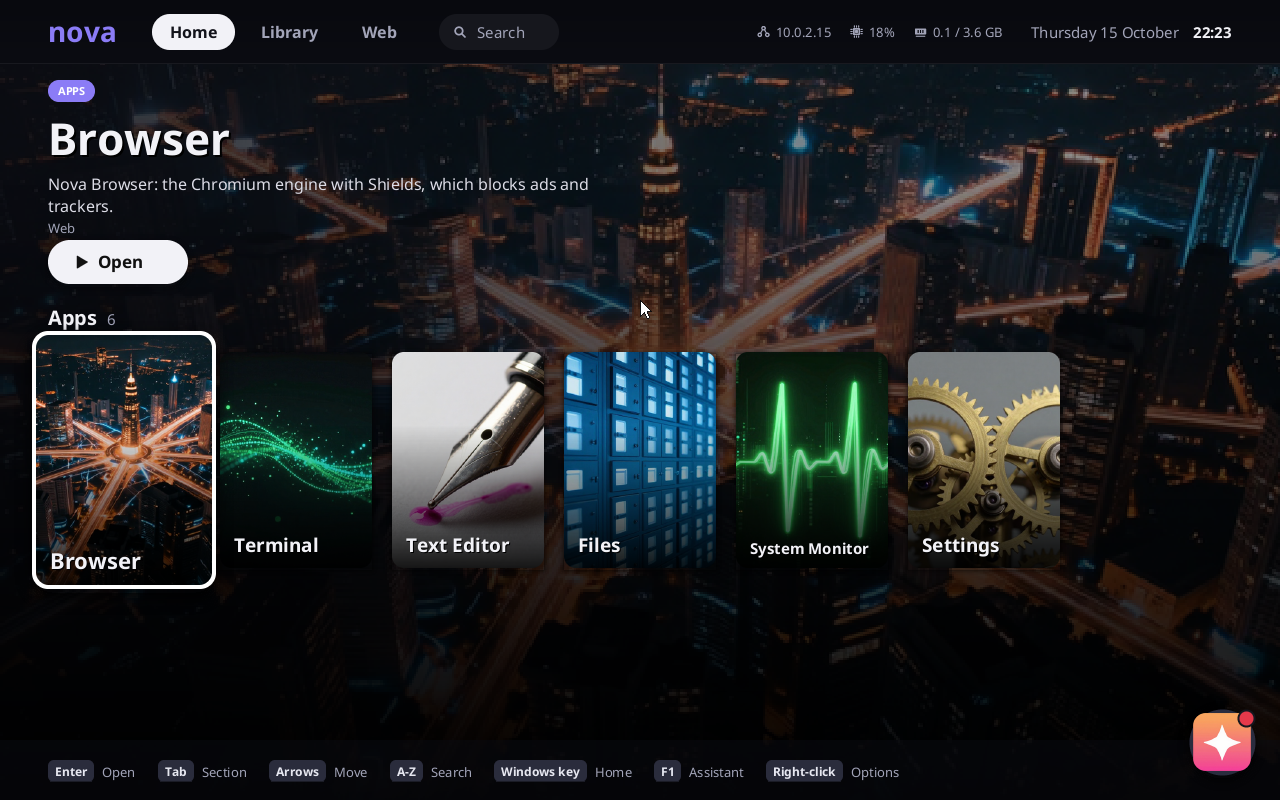
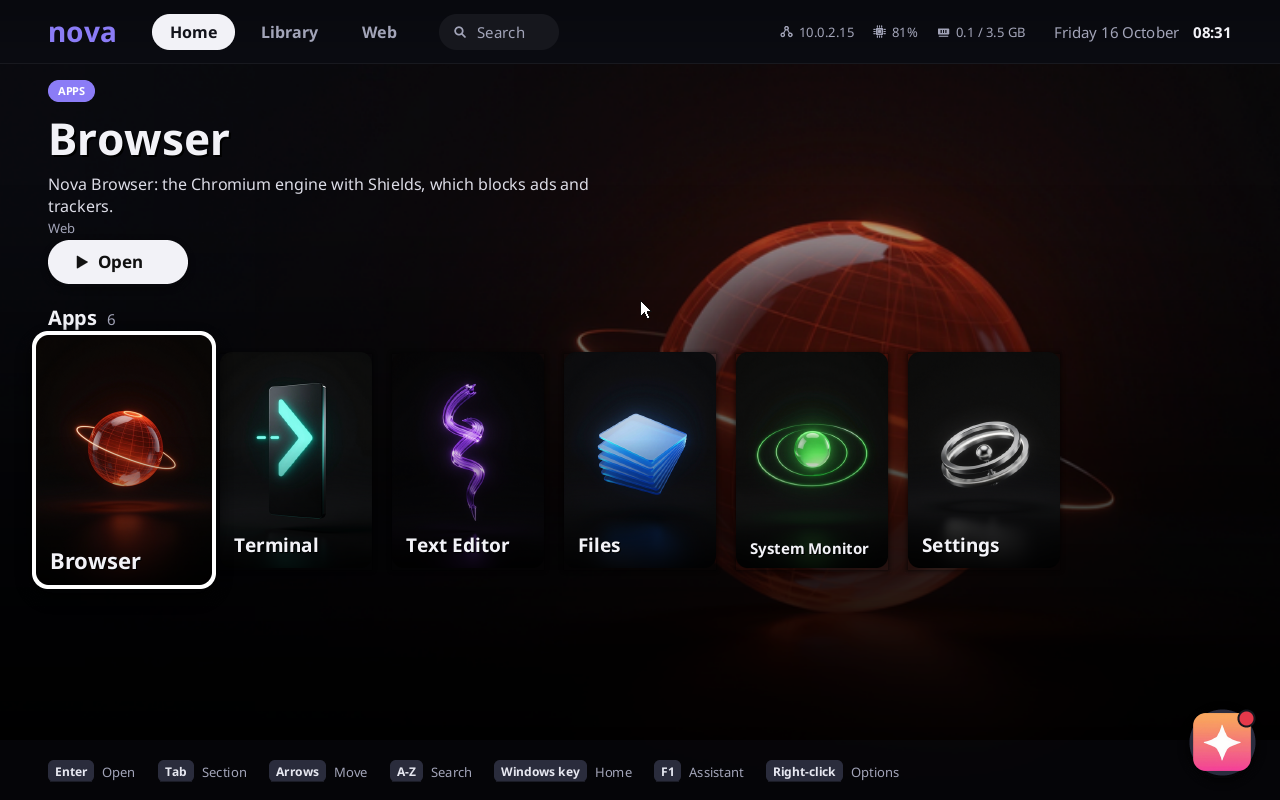
Home key art: one series of light sculptures, capsules plus wide heroes
The Home and Library posters were stock-photo clichés in unrelated styles (a
city for the browser, a fountain pen, brass gears, an ECG line), one 16:9 image
doing both the portrait card (which saw 40% of it) and the full-screen backdrop,
and the two System cards were the same dark circle.

New art direction, written up in assets/README.md: every item is a single
object of dark glass or brushed metal glowing in its signature colour, in the
same black studio under the same key light, so a shelf reads as one family and
matches the icon tiles. Nova motifs instead of clichés: a wire globe with an
orbit ring, an obsidian monolith with a cyan ">" cursor, a violet calligraphic
stroke, a stack of blue glass sheets, a green pulse of rings, a silver
gyroscope, a violet loop arrow (Restart) and a dying ember (Shut down); the
Web tiles and the wallpaper follow the same template. Each item has a portrait
capsule (352x500, composed for the card crop with a quiet bottom for the
title) and a wide hero (768x480, subject at two thirds, empty left half for
the title, description and Open button). Generated with Z-Image Turbo on the
ComfyUI server; several seeds per piece, picked at card size.

home.rs loads hero_<id>.png for the backdrop (falling back to the capsule),
enlarges it bilinearly instead of nearest-neighbour, darkens it less overall
with a second fade under the shelves, gives Restart and Shut down their own
art, and shows the hero in the preview panel until the first live frame
[…]

diff --git a/kernel/src/home.rs b/kernel/src/home.rs
@@ -10,7 +10,10 @@
 //! arrow keys + Enter all work.
 //!
 //! Artwork: `usr/share/nova/home/<name>.png` system files (generated images, see
-//! assets/home/README.md); items without artwork get a procedural poster.
+//! assets/README.md): a portrait capsule per item for the cards and a wide
+//! `hero_<name>.png` for the backdrop, composed with its subject on the right so the
+//! title, description and Open button sit on empty space. Items without artwork get a
+//! procedural poster.
 //!
 //! Typing on Home searches: the query shows in the header and the shelves are
 //! replaced by one row of matches across every tab (Escape clears it).
@@ -166,6 +169,11 @@ fn art(name: &str) -> Option<Arc<Canvas>> {
     c
 }
 
+/// The wide backdrop artwork for an item (`hero_<name>.png`), or its capsule if there is none.
+fn hero(name: &str) -> Option<Arc<Canvas>> {
+    art(&format!("hero_{name}")).or_else(|| art(name))
+}
+
 /// Latest rendered frame per app path.
 static PREVIEWS: SpinLock<Vec<(String, u64, Arc<Canvas>)>> = SpinLock::new(Vec::new());
 /// The app the preview task should render next.
@@ -206,15 +214,36 @@ fn hash(s: &str) -> u32 {
     s.bytes().fold(2166136261u32, |h, b| (h ^ b as u32).wrapping_mul(16777619))
 }
 
-/// Scale `src` to cover `w`x`h` (cropping the overflow, centred).
+/// Scale `src` to cover `w`x`h` (cropping the overflow, centred). Shrinking box-filters
+/// (`blit_scaled`); enlarging, which only the full-screen backdrop does, samples
+/// bilinearly so the artwork stays smooth instead of blocky.
 fn cover(src: &Canvas, w: i32, h: i32) -> Canvas {
     let (sw, sh) = (src.width as i64, src.height as i64);
     let (cw, ch) = if sw * h as i64 > sh * w as i64 { (sh * w as i64 / h as i64, sh) } else { (sw, sw * h as i64 / w as i64) };
-    let (cx, cy) = (((sw - cw) / 2) as i32, ((sh - ch) / 2) as i32);
-    let mut crop = Canvas::new(cw as usize, ch as usize);
-    crop.blit(src, Rect::new(cx, cy, cw as i32, ch as i32), 0, 0);
+    let (cx, cy) = ((sw - cw) / 2, (sh - ch) / 2);
     let mut out = Canvas::new(w as usize, h as usize);
-    out.blit_scaled(&crop, out.bounds(), 0, 255);
+    if cw >= w as i64 {
+        let mut crop = Canvas::new(cw as usize, ch as usize);
+        crop.blit(src, Rect::new(cx as i32, cy as i32, cw as i32, ch as i32), 0, 0);
+        out.blit_scaled(&crop, out.bounds(), 0, 255);
+        return out;
+    }
+    // 24.8 fixed point source coordinates of each output pixel's centre.
+    let pos = |o: i32, n: i32, c: i64, off: i64, limit: i64| -> (usize, u32) {
+        let p = (((2 * o as i64 + 1) * c * 256) / (2 * n as i64) - 128 + off * 256).clamp(0, (limit - 1) * 256);
+        ((p >> 8) as usize, (p & 255) as u32)
+    };
+    for y in 0..h {
+        let (y0, fy) = pos(y, h, ch, cy, sh);
+        let y1 = (y0 + 1).min(sh as usize - 1);
+        for x in 0..w {
+            let (x0, fx) = pos(x, w, cw, cx, sw);
+            let x1 = (x0 + 1).min(sw as usize - 1);
+            let top = blend(src.pixels[y0 * src.width + x0], src.pixels[y0 * src.width + x1], fx);
+            let bottom = blend(src.pixels[y1 * src.width + x0], src.pixels[y1 * src.width + x1], fx);
+            out.pixels[y as usize * w as usize + x as usize] = blend(top, bottom, fy);
+        }
+    }
     out
 }
 
@@ -269,7 +298,8 @@ fn make_poster(item: &Item, w: i32, h: i32) -> Canvas {
             c
         }
     };
-    scrim(&mut c, h / 3, 230);
+    // The capsules keep their bottom quarter quiet for the title; the scrim covers it.
+    scrim(&mut c, h * 2 / 5, 230);
     let size: u16 = if w > CARD_W { 22 } else { 19 };
     let size = if font::width(&item.title, size, Weight::Bold) <= w - 28 { size } else { size - 4 };
     let ty = h - font::line_height(size) - 10;
@@ -437,22 +467,22 @@ impl Home {
             });
         }
 
-        let power = |title: &str, about: &str, action: Action| Item {
+        let power = |title: &str, about: &str, art: &'static str, action: Action| Item {
             title: title.into(),
             category: "System",
             about: about.into(),
             meta: String::new(),
             icon: 'o',
-            color: 0x4C5470,
-            art: Some("power"),
+            color: 0x5B4FA8,
+            art: Some(art),
             kind: Kind::Other,
             action,
         };
         rows.push(Row {
             title: "System",
             items: alloc::vec![
-                power("Restart", "Restart the computer.", Action::Reboot),
-                power("Shut down", "Turn the computer off.", Action::Shutdown),
+                power("Restart", "Restart the computer.", "restart", Action::Reboot),
+                power("Shut down", "Turn the computer off.", "shutdown", Action::Shutdown),
             ],
             scroll: 0,
         });
@@ -922,27 +952,31 @@ impl Home {
         let (w, h) = (self.width, self.height);
         let item = self.selected().cloned();
 
-        // Backdrop: the focused item's artwork across the whole screen, darkened, with a
-        // fade to the shelves and a darker left side under the hero text.
+        // Backdrop: the focused item's hero artwork across the whole screen. The art
+        // keeps its subject on the right, so the darkening is light overall, a gradient
+        // on the left under the hero text, and a fade down to the shelves.
         let key = item.as_ref().map_or(String::new(), |i| i.key());
         if self.backdrop.as_ref().is_none_or(|(k, _)| *k != key) {
-            let mut c = match item.as_ref().and_then(|i| i.art).and_then(art) {
-                Some(a) => cover(&a, w, h),
+            let (mut c, generated) = match item.as_ref().and_then(|i| i.art).and_then(hero) {
+                Some(a) => (cover(&a, w, h), false),
                 // No artwork: the wallpaper, tinted towards the item's colour.
                 None => {
                     let mut c = self.background.clone();
                     if let Some(i) = &item {
                         c.blend_rect(c.bounds(), darken(i.color, 100), 60);
                     }
-                    c
+                    (c, true)
                 }
             };
-            c.blend_rect(c.bounds(), BG, 120);
+            c.blend_rect(c.bounds(), BG, if generated { 120 } else { 70 });
             for x in 0..w * 3 / 5 {
-                let t = 200 - (x * 200 / (w * 3 / 5)) as u32;
+                let t = 190 - (x * 190 / (w * 3 / 5)) as u32;
                 c.blend_rect(Rect::new(x, 0, 1, h), BG, t);
             }
             scrim(&mut c, TOP_BAR + HERO_H / 2, 250);
+            // The shelves sit on the lower half: a second, steeper fade there keeps the
+            // cards and row titles legible on bright art while the hero stays vivid above.
+            scrim(&mut c, TOP_BAR + HERO_H, 150);
             self.backdrop = Some((key, c));
         }
         if let Some((_, c)) = &self.backdrop {
@@ -993,8 +1027,15 @@ impl Home {
             scene.shadow_round(panel, 12, 20, 110);
             scene.fill_round_rect(Rect::new(panel.x - 2, panel.y - 2, panel.w + 4, panel.h + 4), 12, 0x2A2C3E);
             if !Self::draw_live(scene, &item, panel, 10) {
-                let i = self.poster(&item, true);
-                scene.blit_scaled(&self.posters[i].2, panel, 10, 255);
+                // Until the first preview frame: the wide hero art (cropped to the panel),
+                // or the generated poster for items without art.
+                match item.art.and_then(hero) {
+                    Some(a) => scene.blit_scaled(&cover(&a, panel.w, panel.h), panel, 10, 255),
+                    None => {
+                        let i = self.poster(&item, true);
+                        scene.blit_scaled(&self.posters[i].2, panel, 10, 255);
+                    }
+                }
             }
             // A quiet "live" pill: a green dot, not a red banner.
             let badge = if matches!(item.kind, Kind::Window(_)) { "Live" } else { "Preview" };

diff --git a/assets/README.md b/assets/README.md
@@ -1,6 +1,6 @@
 # Generated artwork
 
-Everything in this directory was made for Nova: the posters, wallpaper and app icons with a
+Everything in this directory was made for Nova: the Home key art, wallpaper and app icons with a
 ComfyUI server running a Z-Image Turbo workflow (8 steps, the same workflow as
 kernel/src/imagegen.rs), the symbolic glyphs with a small drawing script. The prompts asked for
 original scenery, abstract art and plain symbols: no text, logos or people. `scripts/build.sh`
@@ -8,9 +8,90 @@ copies the files into the image under `usr/share/nova/`.
 
 | Directory | What | Processing |
 |---|---|---|
-| `home/` | Home's posters and wallpaper, one file per Home item (`browser`, `terminal`, `web_video`, `power`, `wall`, ...) | 1024x576 (wallpaper 1280x800), resized to 640x360 |
+| `home/` | Home's key art: a portrait capsule per item (`browser.png`, `web_video.png`, `restart.png`, ...), a wide hero per item (`hero_browser.png`, ...) and the wallpaper (`wall.png`) | see below; capsules 352x500, heroes 768x480, wallpaper 800x500 |
 | `icons/` | App icons (assistant, browser, terminal, files, editor, monitor, settings, power) | see below; 128x128 |
 | `glyphs/` | Symbolic UI icons (48: arrows, search, grid/list, folder, document, gear, shield, cpu, memory, network, ...): white strokes on black, used as tint masks by `Canvas::draw_mask` | drawn, not generated: see below; 128x128 |
+
+## Home key art
+
+Home shows every item twice: as a portrait card on the shelves (152x216, 176x250 when
+focused, like a game capsule) and, when it is focused, as the backdrop of the whole screen
+with the title, description and Open button over its left half. The first set was one
+16:9 photo per item doing both jobs: the card saw only the middle 40% of it, the backdrop
+was the same photo blown up, and the pictures were stock-photo clichés in unrelated styles
+(a city at night for the browser, a fountain pen, brass gears, a green ECG line). Nothing
+said Nova, and a shelf of them looked like a search results page.
+
+The series was redone the way console and streaming libraries brief their key art (Steam's
+library capsule and hero guidelines, the PS5 and Apple TV home screens, Netflix's artwork
+research): one art direction for the whole set, one focal subject per piece, a signature
+colour per item, legible at thumbnail size, with safe areas for the text the UI draws over
+it, and separate capsule and hero compositions.
+
+**Art direction: light sculptures.** Every item is a single object made of dark glass or
+brushed metal that glows from within in the item's colour, floating in an empty black
+studio, lit by one soft key light from the upper left, with a faint haze of its colour
+behind it and a soft reflection on a dark glossy floor. The material, light and stage are
+the same for all; only the object and its colour change. That is what gives a shelf its
+family resemblance, and it matches the icons (`icons/`): flat gradient tiles in the same
+colours, one symbol each. The posters are the icons' subjects turned into objects.
+Nothing is a stock scene, no text, logos, trademarks or people.
+
+| Item | Colour | Object (the Nova motif) |
+|---|---|---|
+| Browser | orange-red (icon `#FB542B`) | a smoky glass globe etched with glowing lines of latitude, one bright ring orbiting it |
+| Terminal | teal-cyan on slate | a dark obsidian monolith with a right-pointing chevron of cyan light cut into it, a cursor bar at its base |
+| Text Editor | violet | one calligraphic ribbon of violet light, tapering to a nib |
+| Files | sky blue | a fanned stack of thin blue glass sheets, edge-lit |
+| System Monitor | green | concentric rings of green light rippling on black water: a pulse, not an ECG |
+| Settings | brushed silver | a gyroscope of three nested machined rings |
+| Restart | violet | a ring of violet light, open at one point, its end sweeping into an arrow |
+| Shut down | deep violet | a dark glass sphere with a last ember glowing at its core |
+| YouTube (`web_video`) | crimson | a red crystal wedge projecting a cone of light |
+| Wikipedia (`web_wiki`) | cool white | a globe made of thousands of stacked pages |
+| GitHub (`web_code`) | indigo | a constellation of glass nodes joined by lines of light (a commit graph) |
+| DuckDuckGo (`web_search`) | amber | a glass lens focusing light to one bright point |
+| Hacker News (`web_news`) | golden amber | a half disc of light rising over a flat horizon |
+| Rust (`web_forge`) | molten rust-orange | a bar of forged metal still glowing from the forge |
+| Wallpaper (`wall`) | violet on near-black | a single small star flaring in a dark indigo sky, the nova |
+
+**Composition rules.**
+
+- Capsule (`<id>.png`, 352x500 = the focused card at 2x, 0.704 ratio): the object is
+  centred and fills about two thirds of the width in the upper two thirds of the frame;
+  the bottom quarter is quiet, because `home.rs` draws a scrim and the title there.
+- Hero (`hero_<id>.png`, 768x480, the 16:10 of the screen; `home.rs` enlarges it
+  bilinearly under its scrims, so it needs no more pixels): the object is about a third of
+  the frame high and sits at two thirds of the width; the left half is empty black (the
+  hero text, the category chip and the Open button sit in the left 55%, and `home.rs` adds
+  a gradient to the UI background there plus two fades down to the shelves). Renders come
+  out more centred than asked, so the hero is a 16:10 window of a wider 1.75:1 render,
+  placed by the subject's brightness centroid.
+- The background is a true black studio, so the shelf's dark UI (`#0B0C12`) and the art
+  blend without visible edges, and the card's rounded corners cut nothing important.
+- One object, no secondary props, no horizon except where it is the subject (news).
+- Checked at 152x216 (card), 1280x800 under the backdrop scrim, and on the shelf as a
+  row: the row must read as one set of different colours, not as unrelated photos.
+
+**Generation.** ComfyUI, Z-Image Turbo, 8 steps, cfg 1 (the workflow of
+`kernel/src/imagegen.rs`); capsules rendered at 896x1280, heroes at 1792x1024, the wallpaper at
+1536x960; two or more seeds per piece, the best picked by eye at card size, then cropped
+and Lanczos-resized with PIL and saved as 8-bit RGB PNG (the kernel's decoder reads 8-bit
+non-interlaced PNG only). The prompt template is
+
+> *\<object\>*. A minimalist 3D product render, the object floating in an empty
+> pitch-black studio, one soft key light from the upper left, a faint *\<colour\>* haze
+> glowing behind it, a soft reflection on the dark glossy floor, volumetric light, ultra
+> clean, photoreal octane render, no other objects, no text, no letters, no people.
+> Composition: *capsule:* tall portrait frame, the object centered horizontally in the upper
+> two thirds of the frame, filling about 65% of the width, the bottom quarter of the frame
+> is empty dark space. *hero:* very wide cinematic frame, the object is small, about a third
+> of the frame height, placed right of centre at two thirds of the width, the whole left
+> half of the frame is empty dark space with only faint haze, lots of negative space, the
+> object fully inside the frame.
+
+To add an item, write one line for its object in the table's language, keep the template,
+and give it a colour that is not yet on the shelf.
 
 ## App icons
 
